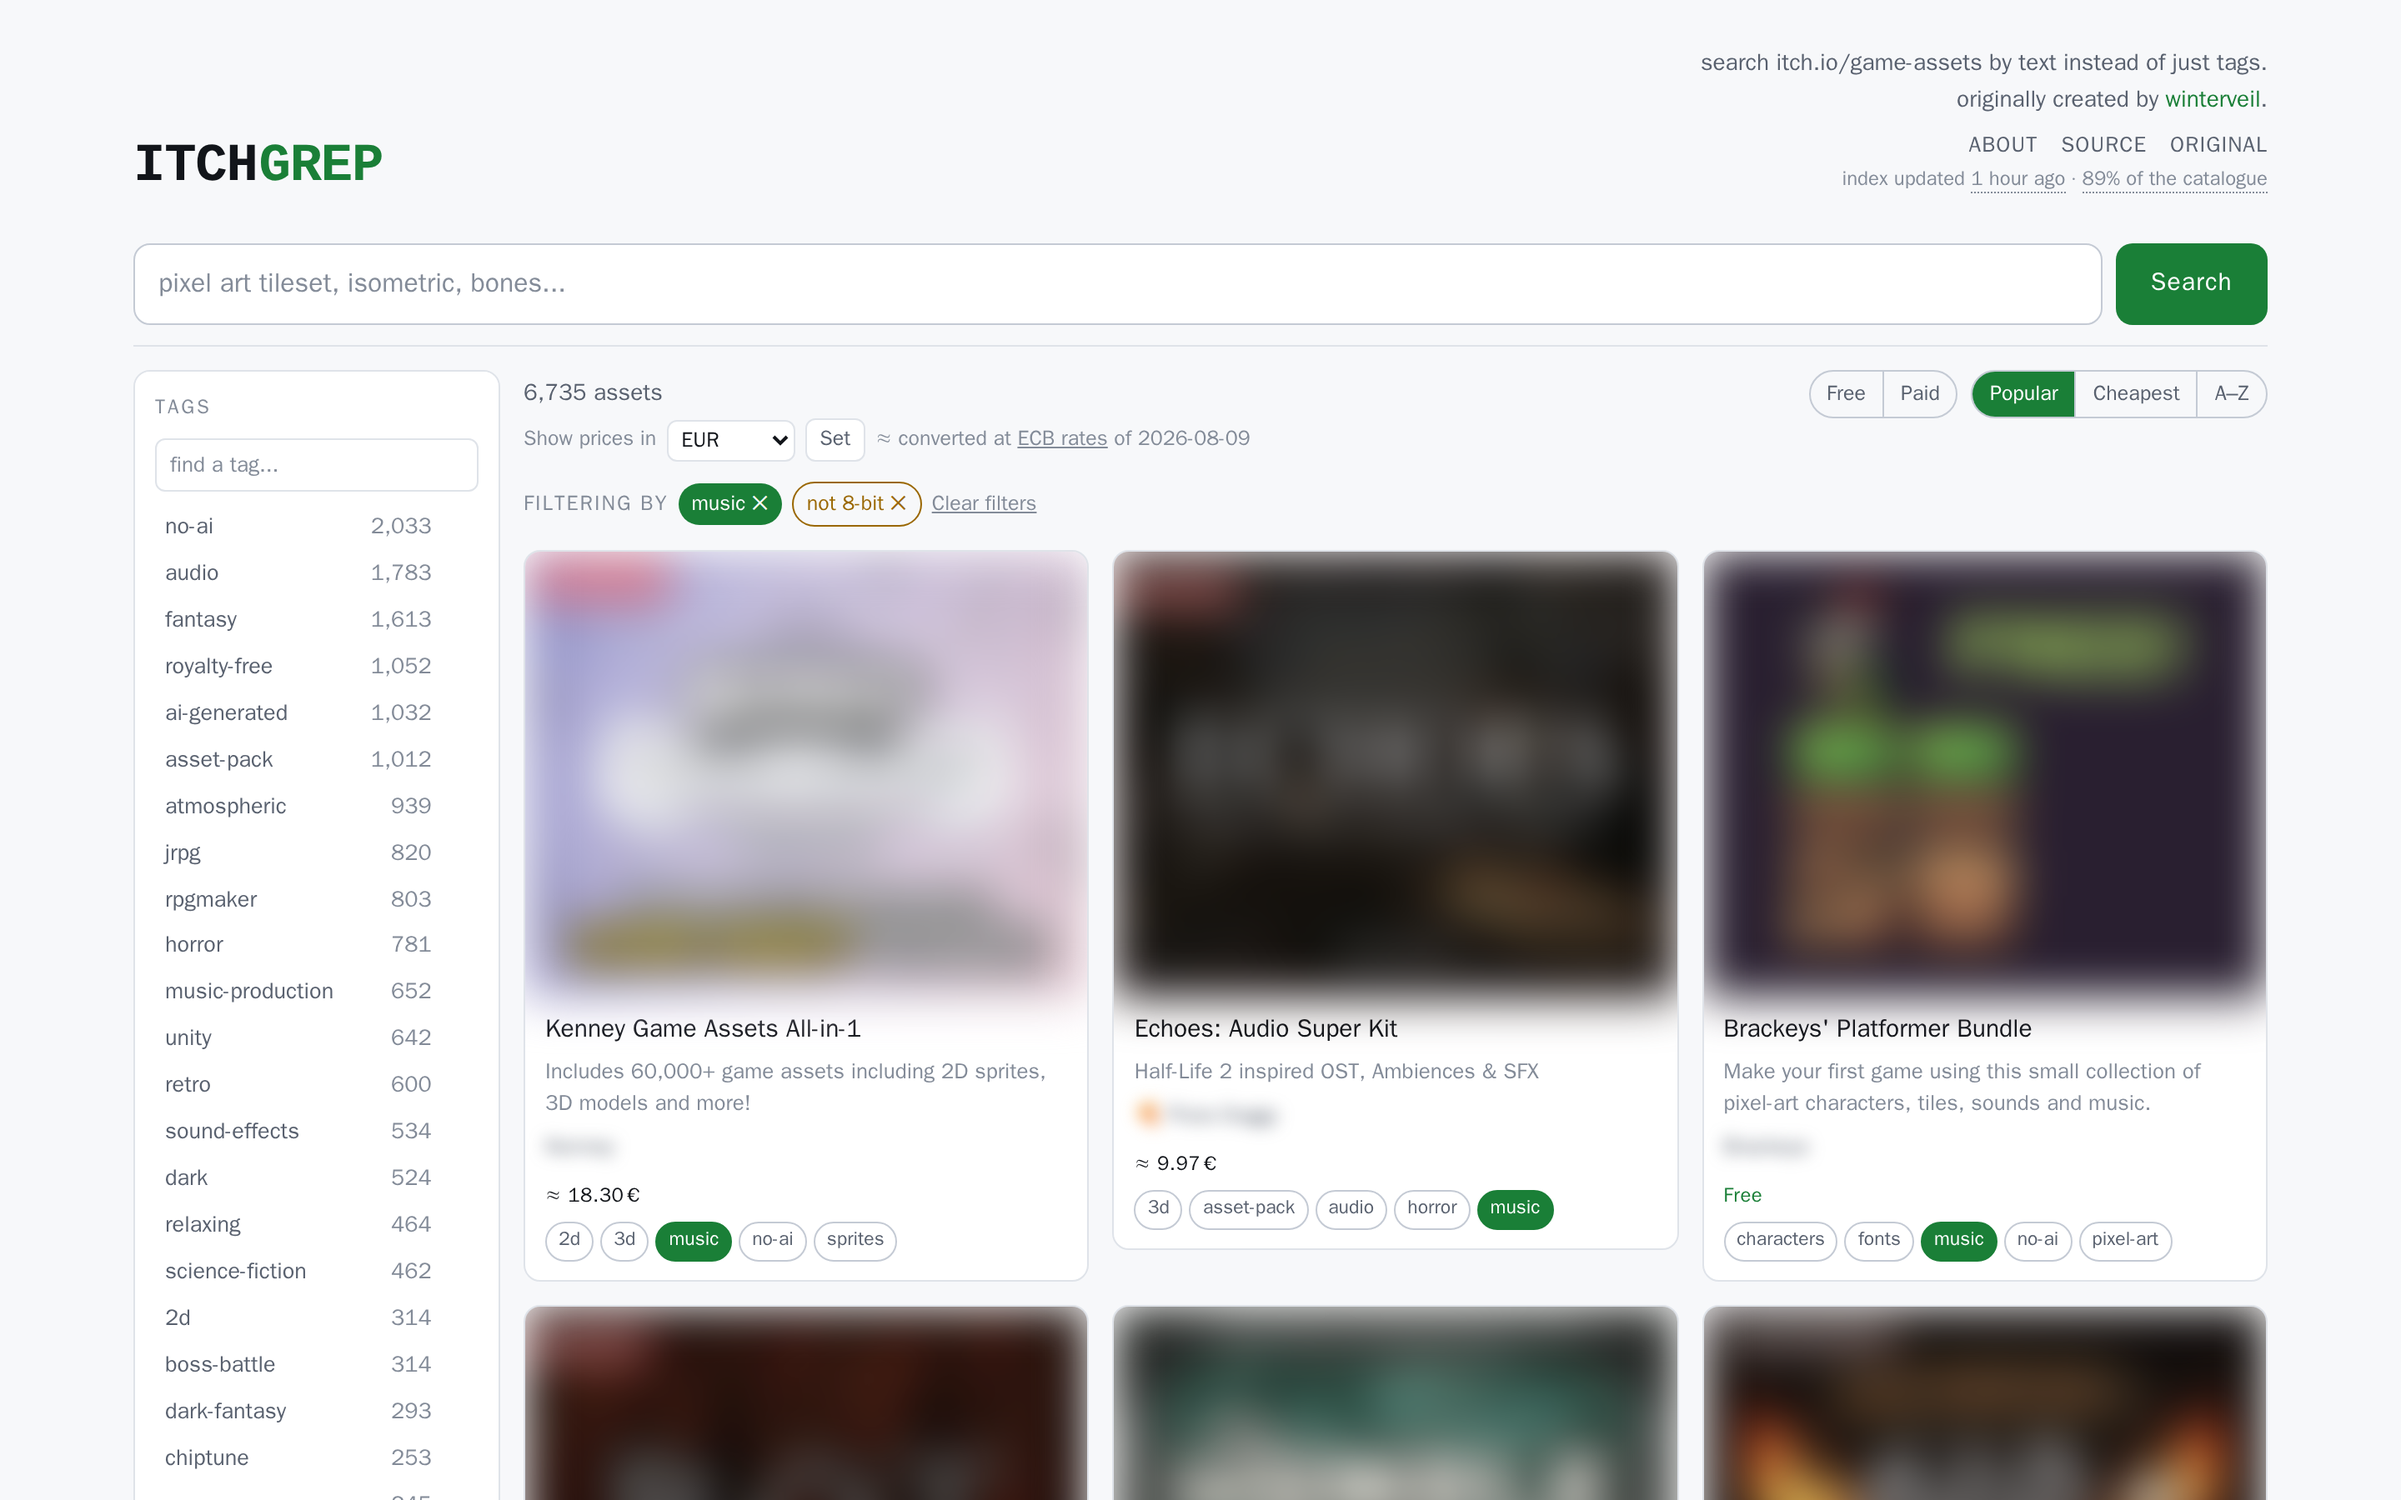
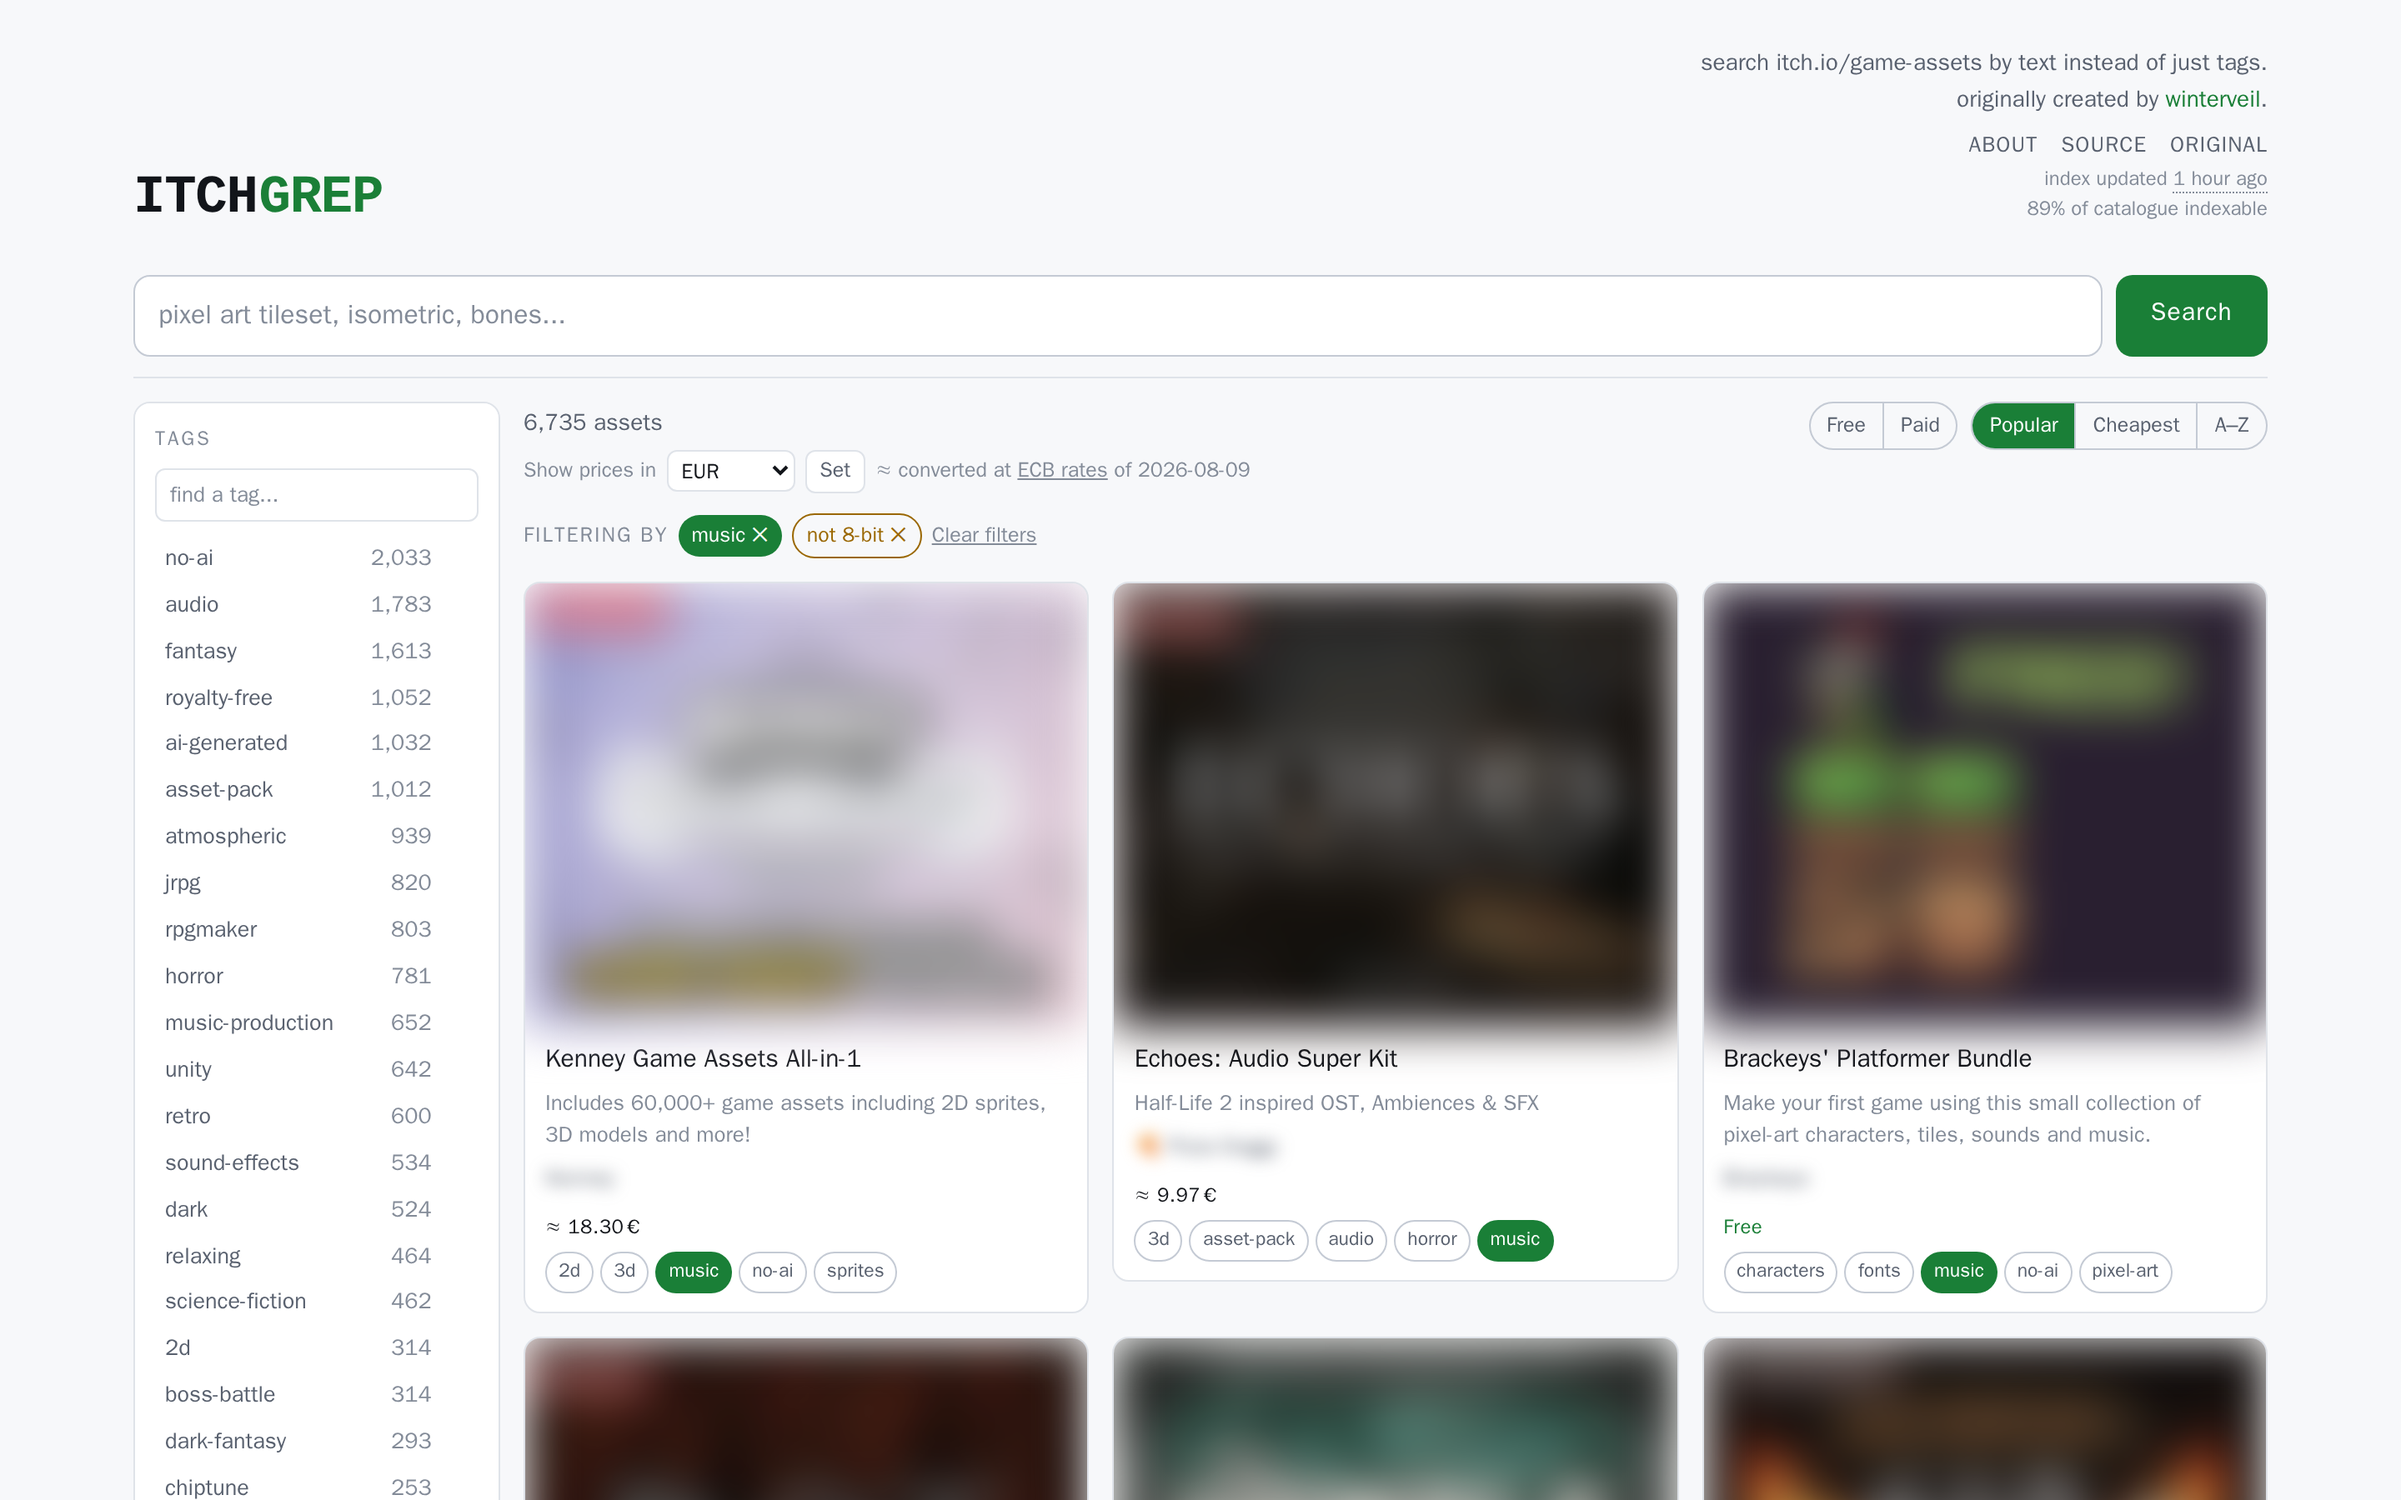
Put coverage on its own line and cut it to one clause
It trailed the index age on the same line and was followed by a screen-reader
copy of the full counts, so the line read as one long run-on sentence about
neither freshness nor completeness. Now a second line under the age, quieter
than it, saying only "89% of catalogue indexable". The exact counts stay on
hover, where they are checkable without costing a line.

diff --git a/internal/web/static/app.css b/internal/web/static/app.css
@@ -225,8 +225,12 @@ a:hover {
   cursor: help;
 }
 
+/* Its own line under the age, and quieter than it: how complete the index is
+   matters, but it is not the thing a visitor came to read. */
 .index-coverage {
-  border-bottom: 1px dotted currentColor;
+  margin: 0.2rem 0 0;
+  font-size: 1.2rem;
+  color: var(--text-faint);
   cursor: help;
 }
 

diff --git a/internal/web/templates/render_test.go b/internal/web/templates/render_test.go
@@ -182,8 +182,13 @@ func TestCoverageIsStatedWithItsDenominator(t *testing.T) {
 	age := NewFreshness(time.Now().Add(-time.Hour), time.Now())
 	html := render(t, IndexAge(age, Coverage{Indexed: 96903, Catalogue: 108808}))
 
-	assert.Contains(t, html, "89% of the catalogue")
-	assert.Contains(t, html, "96,903 of 108,808 assets", "the rounded figure must stay checkable")
+	assert.Contains(t, html, "89% of catalogue indexable")
+	// On its own line, not trailing the age: the two say different kinds of
+	// thing, and run together they read as one sentence about neither.
+	assert.Contains(t, html, `<p class="index-coverage"`)
+	// The exact counts stay reachable on hover rather than in the line itself.
+	assert.Contains(t, html, "96,903 of 108,808 assets")
+	assert.NotContains(t, html, "visually-hidden", "the detail is not repeated inline")
 }
 
 func TestCoverageIsSilentWhenItWasNeverMeasured(t *testing.T) {
@@ -193,7 +198,7 @@ func TestCoverageIsSilentWhenItWasNeverMeasured(t *testing.T) {
 	html := render(t, IndexAge(age, Coverage{}))
 
 	assert.Contains(t, html, "index updated")
-	assert.NotContains(t, html, "of the catalogue")
+	assert.NotContains(t, html, "of catalogue indexable")
 	assert.NotContains(t, html, "0%")
 }
 

diff --git a/internal/web/templates/coverage.go b/internal/web/templates/coverage.go
@@ -47,16 +47,17 @@ func (c Coverage) Percent() int {
 	return pct
 }
 
-// Label is the short form shown in the masthead.
+// Label is the whole of what the masthead says. Deliberately one short clause:
+// this is a caveat sitting under the index age, not a paragraph.
 func (c Coverage) Label() string {
 	if !c.Known() {
 		return ""
 	}
-	return fmt.Sprintf("%d%% of the catalogue", c.Percent())
+	return fmt.Sprintf("%d%% of catalogue indexable", c.Percent())
 }
 
-// Detail spells out the rounded percentage for a tooltip and for screen
-// readers, so the figure is checkable rather than merely asserted.
+// Detail spells the rounded percentage out on hover, so the figure is checkable
+// without spending a line on it.
 func (c Coverage) Detail() string {
 	if !c.Known() {
 		return ""
